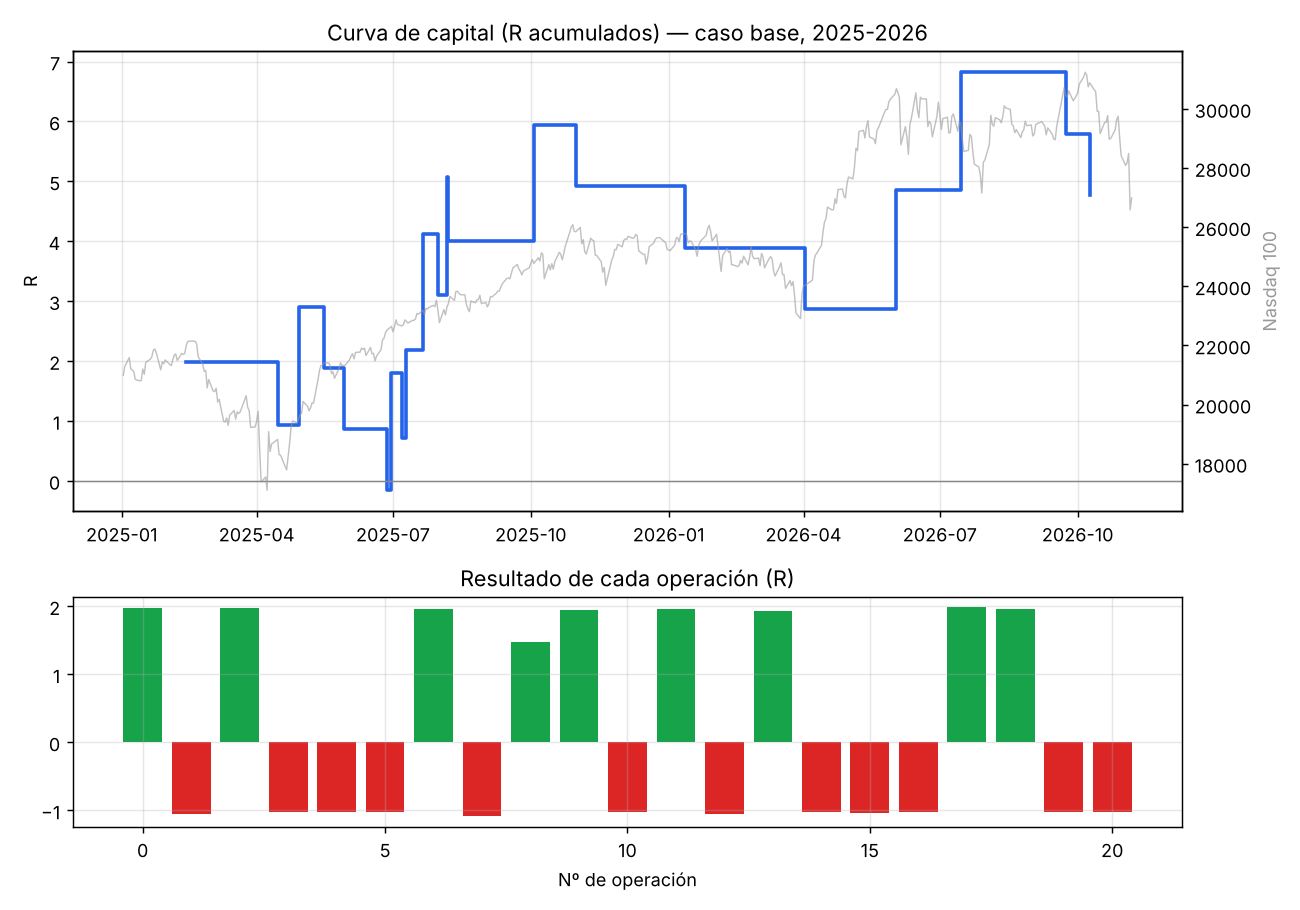
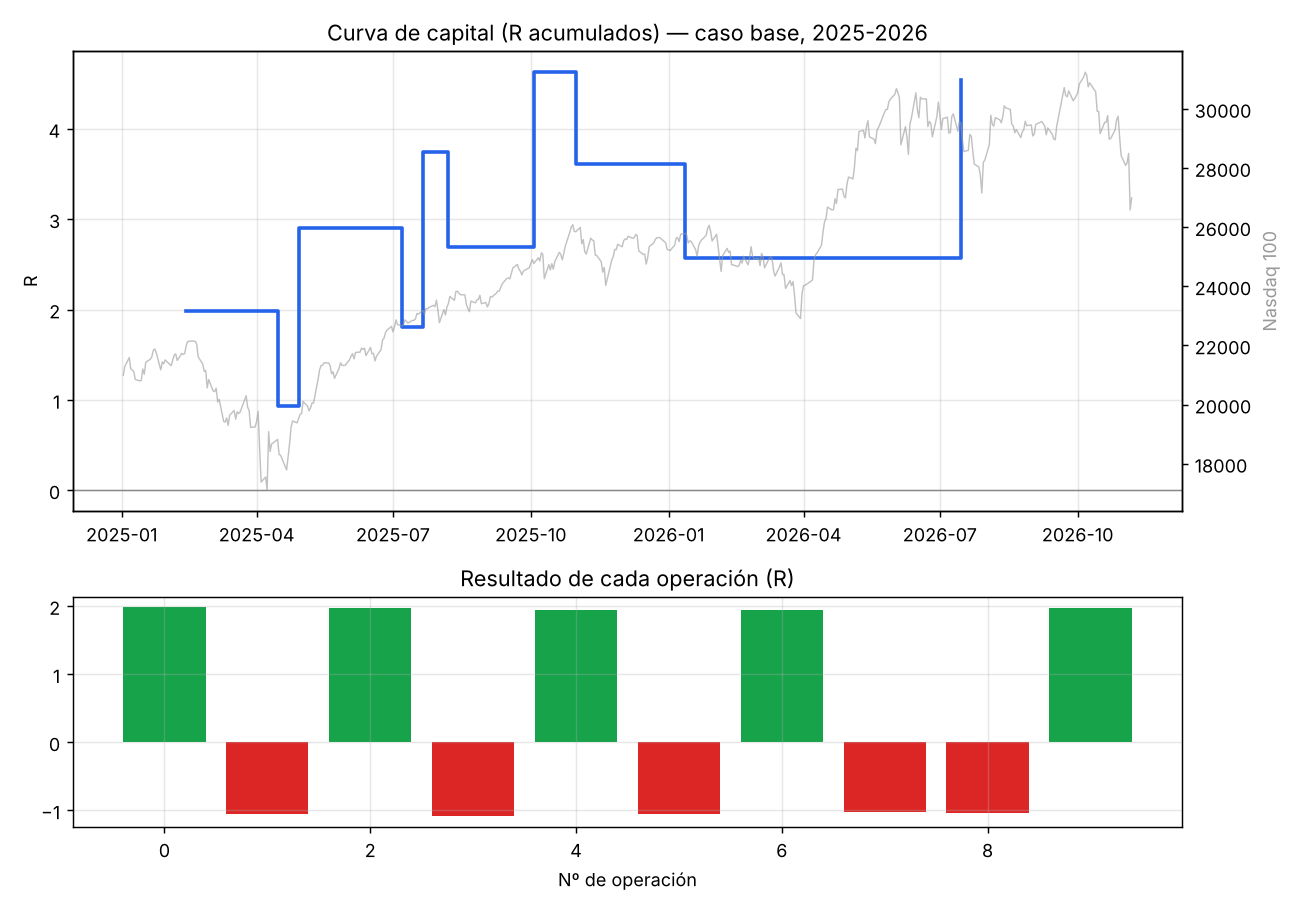
Use NY open (9:30-10:30) as entry window in base case
Claude-Session: https://claude.ai/code/session_01T3y8p8qN3fJDR6gsHnEXtf

diff --git a/backtest/run_backtest.py b/backtest/run_backtest.py
@@ -120,8 +120,10 @@ def main():
         ("Solo zonas H1", dict(zone_tfs=("H1",))),
         ("Solo compras", dict(directions="long")),
         ("Sin filtro de noticias", dict(news_filter=False)),
-        ("Ventana 9:30-10:30", dict(entry_end="10:30")),
-        ("Ventana 9:30-12:00", dict(entry_end="12:00")),
+        ("Ventana 9:30-10:00", dict(entry_end="10:00")),
+        ("Ventana 9:30-11:00", dict(entry_end="11:00")),
+        ("Ventana 9:30-11:30", dict(entry_end="11:30")),
+        ("Ventana 9:30-11:00 + saltar solo la 1ª", dict(entry_end="11:00", select="skip_first")),
         ("RR 1:1.5", dict(rr=1.5)),
         ("RR 1:3", dict(rr=3.0)),
         ("Stop máx. 40 pts", dict(max_risk=40)),

diff --git a/backtest/strategy.py b/backtest/strategy.py
@@ -38,7 +38,7 @@ NEWS = os.path.join(os.path.dirname(__file__), "news_calendar.csv")
 @dataclass
 class Params:
     session_start: str = "09:30"
-    entry_end: str = "11:30"
+    entry_end: str = "10:30"          # apertura de NY: primera hora
     exit_time: str = "15:55"
     zone_tfs: tuple = ("H1", "H4")
     leg_tf: str = "H4"               # temporalidad del swing que define el impulso

diff --git a/results/RESULTS.md b/results/RESULTS.md
@@ -6,39 +6,37 @@ Datos: NSXUSD 1m (HistData), 2025-01-01 → 2026-11-06. Costes: 1.0 pts por oper
 
 | Métrica | Valor |
 |---|---|
-| Operaciones | 21 |
-| Tasa de acierto (TP) | 38.1% |
-| Esperanza por operación (R) | 0.23 |
-| Resultado total (R) | 4.77 |
-| Profit factor | 1.38 |
-| Drawdown máximo (R) | 3.07 |
-| Racha perdedora máxima | 3 |
-| Stop medio (puntos) | 36.34 |
-| Resultado en USD (250 USD/R) | 1,193 |
-| IC 95% de la esperanza (bootstrap) | [-0.35, 0.82] R |
-| Prob. bootstrap de esperanza ≤ 0 | 25% |
+| Operaciones | 10 |
+| Tasa de acierto (TP) | 50.0% |
+| Esperanza por operación (R) | 0.45 |
+| Resultado total (R) | 4.54 |
+| Profit factor | 1.86 |
+| Drawdown máximo (R) | 2.05 |
+| Racha perdedora máxima | 2 |
+| Stop medio (puntos) | 27.35 |
+| Resultado en USD (250 USD/R) | 1,135 |
+| IC 95% de la esperanza (bootstrap) | [-0.45, 1.36] R |
+| Prob. bootstrap de esperanza ≤ 0 | 17% |
 
 ## Qué pasó cada día
 
 | Resultado del día | Días |
 |---|---|
 | sin_zonas | 192 |
-| no_llego | 161 |
+| no_llego | 191 |
 | noticia | 57 |
-| zona_rota | 25 |
-| operacion | 21 |
 | sin_sesgo | 12 |
-| stop_fuera_rango | 8 |
-| sin_gatillo | 1 |
+| zona_rota | 12 |
+| operacion | 10 |
+| stop_fuera_rango | 3 |
 
 ## Por año y por lado
 
 |                 |   count |   mean |   sum |
 |:----------------|--------:|-------:|------:|
-| (2025, 'LONG')  |      12 |   0.42 |  5.07 |
-| (2025, 'SHORT') |       3 |  -0.05 | -0.14 |
-| (2026, 'LONG')  |       3 |  -0.02 | -0.07 |
-| (2026, 'SHORT') |       3 |  -0.03 | -0.09 |
+| (2025, 'LONG')  |       6 |   0.95 |  5.71 |
+| (2025, 'SHORT') |       2 |  -1.05 | -2.11 |
+| (2026, 'SHORT') |       2 |   0.47 |  0.93 |
 
 ## Por mes (R)
 
@@ -46,17 +44,11 @@ Datos: NSXUSD 1m (HistData), 2025-01-01 → 2026-11-06. Costes: 1.0 pts por oper
 |:--------|--------:|------:|
 | 2025-02 |       1 |  1.98 |
 | 2025-04 |       2 |  0.92 |
-| 2025-05 |       2 | -2.04 |
-| 2025-06 |       2 |  0.94 |
-| 2025-07 |       4 |  1.3  |
-| 2025-08 |       2 |  0.91 |
+| 2025-07 |       2 |  0.85 |
+| 2025-08 |       1 | -1.06 |
 | 2025-10 |       2 |  0.92 |
 | 2026-01 |       1 | -1.03 |
-| 2026-04 |       1 | -1.02 |
-| 2026-06 |       1 |  1.98 |
 | 2026-07 |       1 |  1.97 |
-| 2026-09 |       1 | -1.03 |
-| 2026-10 |       1 | -1.02 |
 
 ## Simulación de cuenta de fondeo 50K
 
@@ -65,30 +57,32 @@ Objetivo +3.000 USD, pérdida máxima trailing 2.000 USD. Se arranca la evaluaci
 | Riesgo por operación | Pasa | Se quema | Sin resolver |
 |---|---|---|---|
 | 250 USD | 0% | 0% | 100% |
-| 500 USD | 14% | 0% | 86% |
-| 1000 USD | 29% | 62% | 10% |
+| 500 USD | 0% | 0% | 100% |
+| 1000 USD | 20% | 40% | 40% |
 
 ## Sensibilidad (cada fila cambia una sola regla)
 
 | variante                                    |   ops | acierto   |   esperanza_R |   total_R |   PF |   maxDD_R |
 |:--------------------------------------------|------:|:----------|--------------:|----------:|-----:|----------:|
-| Caso base                                   |    21 | 38%       |          0.23 |       4.8 | 1.38 |       3.1 |
-| Entrar en todas las zonas (no saltar la 1ª) |    52 | 35%       |          0.1  |       5.1 | 1.16 |       8.5 |
-| Saltar solo la 1ª zona                      |    33 | 42%       |          0.32 |      10.5 | 1.56 |       4.1 |
-| Impulso medido con swings H1                |    17 | 29%       |         -0.01 |      -0.2 | 0.99 |       6.4 |
-| Solo FVG (sin envolventes)                  |    18 | 50%       |          0.61 |      10.9 | 2.32 |       4.1 |
-| Envolvente = cuerpo completo                |    18 | 50%       |          0.61 |      10.9 | 2.32 |       4.1 |
-| Solo zonas H1                               |    20 | 35%       |          0.14 |       2.8 | 1.23 |       4.3 |
-| Solo compras                                |    15 | 40%       |          0.33 |       5   | 1.61 |       3.1 |
-| Sin filtro de noticias                      |    21 | 38%       |          0.23 |       4.8 | 1.38 |       3.1 |
-| Ventana 9:30-10:30                          |    10 | 50%       |          0.45 |       4.5 | 1.86 |       2.1 |
-| Ventana 9:30-12:00                          |    22 | 36%       |          0.17 |       3.7 | 1.28 |       3.1 |
-| RR 1:1.5                                    |    21 | 48%       |          0.16 |       3.3 | 1.29 |       3.1 |
-| RR 1:3                                      |    21 | 33%       |          0.42 |       8.8 | 1.65 |       5.2 |
-| Stop máx. 40 pts                            |    11 | 55%       |          0.59 |       6.5 | 2.23 |       1.1 |
-| Stop máx. 100 pts                           |    25 | 32%       |          0.03 |       0.7 | 1.04 |       5.1 |
-| Sin costes                                  |    21 | 38%       |          0.26 |       5.5 | 1.46 |       3   |
-| Costes x2 (2 pts)                           |    21 | 38%       |          0.19 |       4   | 1.32 |       3.1 |
+| Caso base                                   |    10 | 50%       |          0.45 |       4.5 | 1.86 |       2.1 |
+| Entrar en todas las zonas (no saltar la 1ª) |    28 | 36%       |          0.12 |       3.3 | 1.18 |       3.5 |
+| Saltar solo la 1ª zona                      |    13 | 54%       |          0.58 |       7.5 | 2.19 |       2   |
+| Impulso medido con swings H1                |     9 | 11%       |         -0.44 |      -4   | 0.46 |       7.3 |
+| Solo FVG (sin envolventes)                  |     9 | 56%       |          0.63 |       5.6 | 2.35 |       2.1 |
+| Envolvente = cuerpo completo                |     9 | 56%       |          0.63 |       5.6 | 2.35 |       2.1 |
+| Solo zonas H1                               |    11 | 45%       |          0.32 |       3.5 | 1.56 |       2.1 |
+| Solo compras                                |     6 | 67%       |          0.95 |       5.7 | 3.71 |       1.1 |
+| Sin filtro de noticias                      |    10 | 50%       |          0.45 |       4.5 | 1.86 |       2.1 |
+| Ventana 9:30-10:00                          |     4 | 50%       |          0.46 |       1.8 | 1.87 |       1.1 |
+| Ventana 9:30-11:00                          |    17 | 41%       |          0.2  |       3.4 | 1.33 |       3.1 |
+| Ventana 9:30-11:30                          |    21 | 38%       |          0.23 |       4.8 | 1.38 |       3.1 |
+| Ventana 9:30-11:00 + saltar solo la 1ª      |    26 | 50%       |          0.47 |      12.2 | 1.91 |       2.1 |
+| RR 1:1.5                                    |    10 | 50%       |          0.2  |       2   | 1.39 |       2.1 |
+| RR 1:3                                      |    10 | 50%       |          0.95 |       9.5 | 2.82 |       2.1 |
+| Stop máx. 40 pts                            |     8 | 50%       |          0.45 |       3.6 | 1.85 |       1.1 |
+| Stop máx. 100 pts                           |    12 | 42%       |          0.21 |       2.5 | 1.35 |       4.1 |
+| Sin costes                                  |    10 | 50%       |          0.5  |       5   | 2    |       2   |
+| Costes x2 (2 pts)                           |    10 | 50%       |          0.41 |       4.1 | 1.74 |       2.1 |
 
 ## Operaciones
 
@@ -97,21 +91,10 @@ Objetivo +3.000 USD, pérdida máxima trailing 2.000 USD. Se arranca la evaluaci
 | 2025-02-13 | LONG   | 2025-02-13 09:43:00 | 21796.7 | 21747.7 | 21894.7 |      48.99 | TP       |  1.98 | ENG         | H1        |
 | 2025-04-15 | SHORT  | 2025-04-15 10:19:00 | 18813.3 | 18833.8 | 18772.3 |      20.5  | SL       | -1.05 | ENG         | H1        |
 | 2025-04-29 | LONG   | 2025-04-29 10:20:00 | 19309.9 | 19276.1 | 19377.4 |      33.76 | TP       |  1.97 | FVG         | H1        |
-| 2025-05-16 | LONG   | 2025-05-16 10:49:00 | 21358.8 | 21308.3 | 21459.8 |      50.5  | SL       | -1.02 | ENG         | H1        |
-| 2025-05-29 | LONG   | 2025-05-29 10:53:00 | 21488.4 | 21431.5 | 21602   |      56.83 | SL       | -1.02 | FVG         | H1        |
-| 2025-06-27 | LONG   | 2025-06-27 10:37:00 | 22517.6 | 22470.8 | 22611.2 |      46.77 | SL       | -1.02 | ENG         | H1        |
-| 2025-06-30 | LONG   | 2025-06-30 10:52:00 | 22599.7 | 22576.7 | 22645.6 |      22.94 | TP       |  1.96 | FVG         | H4        |
 | 2025-07-07 | LONG   | 2025-07-07 10:10:00 | 22753.6 | 22742.3 | 22776   |      11.23 | SL       | -1.09 | ENG         | H1        |
-| 2025-07-10 | LONG   | 2025-07-10 11:15:00 | 22765.8 | 22712.5 | 22872.3 |      53.27 | TIEMPO   |  1.48 | FVG         | H1        |
 | 2025-07-21 | LONG   | 2025-07-21 10:16:00 | 23078.4 | 23062.4 | 23110.4 |      15.98 | TP       |  1.94 | ENG         | H1        |
-| 2025-07-31 | LONG   | 2025-07-31 10:50:00 | 23519.7 | 23474.6 | 23609.9 |      45.12 | SL       | -1.02 | FVG         | H1        |
-| 2025-08-06 | SHORT  | 2025-08-06 11:10:00 | 23145.8 | 23174.1 | 23089.2 |      28.27 | TP       |  1.96 | ENG         | H4        |
 | 2025-08-07 | SHORT  | 2025-08-07 09:57:00 | 23485.5 | 23502.9 | 23450.9 |      17.31 | SL       | -1.06 | ENG         | H1        |
 | 2025-10-03 | LONG   | 2025-10-03 09:53:00 | 24909.4 | 24894   | 24940.4 |      15.47 | TP       |  1.94 | FVG         | H1        |
 | 2025-10-31 | LONG   | 2025-10-31 10:08:00 | 25977.5 | 25926.5 | 26079.7 |      51.09 | SL       | -1.02 | FVG         | H1        |
 | 2026-01-12 | SHORT  | 2026-01-12 09:54:00 | 25728.3 | 25758.2 | 25668.6 |      29.86 | SL       | -1.03 | ENG         | H1        |
-| 2026-04-02 | SHORT  | 2026-04-02 11:25:00 | 23777.2 | 23829.3 | 23673.2 |      52.03 | SL       | -1.02 | FVG         | H1        |
-| 2026-06-02 | LONG   | 2026-06-02 10:42:00 | 30425.3 | 30369.9 | 30536.1 |      55.4  | TP       |  1.98 | FVG         | H1        |
 | 2026-07-15 | SHORT  | 2026-07-15 10:08:00 | 29771   | 29800.3 | 29712.4 |      29.3  | TP       |  1.97 | FVG         | H1        |
-| 2026-09-23 | LONG   | 2026-09-23 11:00:00 | 30572.5 | 30537.2 | 30643   |      35.27 | SL       | -1.03 | ENG         | H1        |
-| 2026-10-09 | LONG   | 2026-10-09 10:52:00 | 30810.6 | 30767.3 | 30897   |      43.23 | SL       | -1.02 | ENG         | H4        |

diff --git a/README.md b/README.md
@@ -1,7 +1,7 @@
 # Rea — backtest de la estrategia FVG / envolventes en Nasdaq
 
 Backtest 2025–2026 de una versión **mecánica** de la estrategia (sesgo diario →
-zonas H4/H1 → gatillo en 1 minuto, RR 1:2, ventana horaria y filtro de noticias).
+zonas H4/H1 → gatillo en 1 minuto, RR 1:2, ventana de apertura de NY 9:30–10:30 y filtro de noticias).
 
 - Reglas exactas: docstring de [`backtest/strategy.py`](backtest/strategy.py) (todas son parámetros de `Params`).
 - Resultados: [`results/RESULTS.md`](results/RESULTS.md), [`results/trades.csv`](results/trades.csv),
